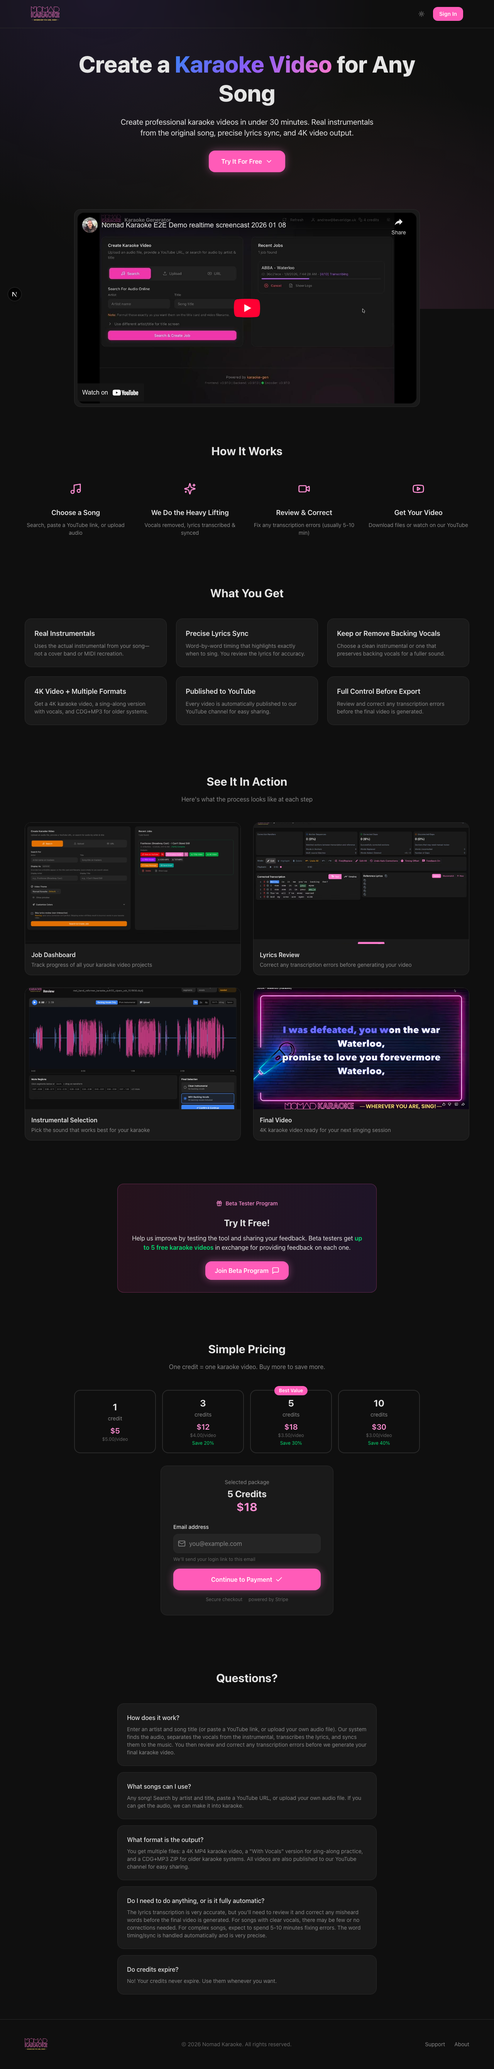
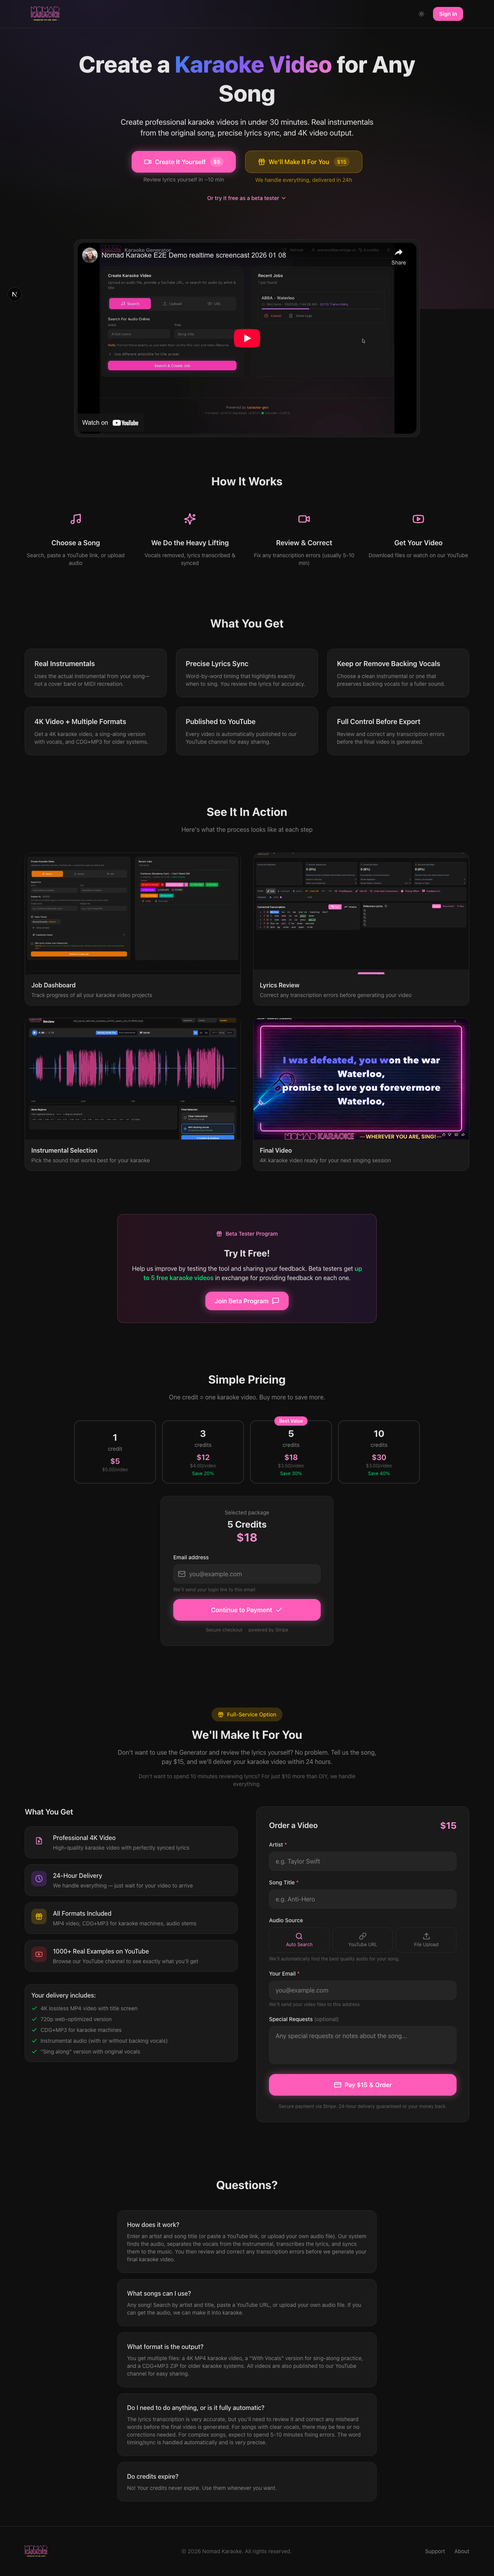
fix(dashboard): Remove double scroll and eliminate slow download loading
Two UX issues fixed:

1. Double scroll: Removed inner scroll container (max-h-[500px] overflow-y-auto)
   from jobs list - page now scrolls naturally without nested scroll areas

2. Slow "Loading downloads...": OutputLinks now uses job data directly instead
   of making 2 API calls per completed job card. Eliminates N×2 API calls that
   caused 10+ second delays for some jobs.

Changes:
- page.tsx: Remove scroll styles from jobs list container
- OutputLinks.tsx: Accept job prop, use file_urls and state_data directly
- JobCard.tsx: Pass full job object to OutputLinks

diff --git a/frontend/components/job/OutputLinks.tsx b/frontend/components/job/OutputLinks.tsx
@@ -1,7 +1,7 @@
 "use client"
 
-import { useEffect, useState, useRef, useCallback } from "react"
-import { api, adminApi } from "@/lib/api"
+import { useRef, useCallback, useEffect, useState } from "react"
+import { api, adminApi, Job } from "@/lib/api"
 import { useTenant } from "@/lib/tenant"
 import { Button } from "@/components/ui/button"
 import { Download, Loader2, ExternalLink, FolderOpen, Copy, Mail, Settings } from "lucide-react"
@@ -18,14 +18,16 @@ import { Input } from "@/components/ui/input"
 import { Label } from "@/components/ui/label"
 
 interface OutputLinksProps {
-  jobId: string
+  job: Job
 }
 
-export function OutputLinks({ jobId }: OutputLinksProps) {
-  const [downloadUrls, setDownloadUrls] = useState<Record<string, any> | null>(null)
-  const [youtubeUrl, setYoutubeUrl] = useState<string | null>(null)
-  const [dropboxUrl, setDropboxUrl] = useState<string | null>(null)
-  const [isLoading, setIsLoading] = useState(false)
+export function OutputLinks({ job }: OutputLinksProps) {
+  // Use file_urls from job directly - no API call needed
+  const downloadUrls = job.file_urls || null
+  // Use state_data from job directly - no API call needed
+  const youtubeUrl = job.state_data?.youtube_url || null
+  const dropboxUrl = job.state_data?.dropbox_link || null
+
   const [copiedUrl, setCopiedUrl] = useState<string | null>(null)
   const [copiedMessage, setCopiedMessage] = useState(false)
   const [isLoadingMessage, setIsLoadingMessage] = useState(false)
@@ -37,6 +39,15 @@ export function OutputLinks({ jobId }: OutputLinksProps) {
   const messageTimeoutRef = useRef<NodeJS.Timeout | null>(null)
   const emailTimeoutRef = useRef<NodeJS.Timeout | null>(null)
 
+  // Cleanup timeouts on unmount
+  useEffect(() => {
+    return () => {
+      if (copyTimeoutRef.current) clearTimeout(copyTimeoutRef.current)
+      if (messageTimeoutRef.current) clearTimeout(messageTimeoutRef.current)
+      if (emailTimeoutRef.current) clearTimeout(emailTimeoutRef.current)
+    }
+  }, [])
+
   const { user } = useAuth()
   const { features } = useTenant()
   const isAdmin = user?.role === 'admin'
@@ -44,46 +55,6 @@ export function OutputLinks({ jobId }: OutputLinksProps) {
   // Filter external links based on tenant features
   const showYoutubeLink = features.youtube_upload && youtubeUrl
   const showDropboxLink = features.dropbox_upload && dropboxUrl
-
-  useEffect(() => {
-    loadOutputLinks()
-  }, [jobId])
-
-  // Cleanup timeouts on unmount
-  useEffect(() => {
-    return () => {
-      if (copyTimeoutRef.current) {
-        clearTimeout(copyTimeoutRef.current)
-      }
-      if (messageTimeoutRef.current) {
-        clearTimeout(messageTimeoutRef.current)
-      }
-      if (emailTimeoutRef.current) {
-        clearTimeout(emailTimeoutRef.current)
-      }
-    }
-  }, [])
-
-  async function loadOutputLinks() {
-    setIsLoading(true)
-    try {
-      const result = await api.getDownloadUrls(jobId)
-      setDownloadUrls(result.download_urls)
-
-      // Extract YouTube and Dropbox URLs from state_data if available
-      const job = await api.getJob(jobId)
-      if (job.state_data?.youtube_url) {
-        setYoutubeUrl(job.state_data.youtube_url)
-      }
-      if (job.state_data?.dropbox_link) {
-        setDropboxUrl(job.state_data.dropbox_link)
-      }
-    } catch (err) {
-      console.error("Failed to load output links:", err)
-    } finally {
-      setIsLoading(false)
-    }
-  }
 
   const copyToClipboard = useCallback(async (url: string) => {
     // Check if clipboard API is available
@@ -118,7 +89,7 @@ export function OutputLinks({ jobId }: OutputLinksProps) {
 
     setIsLoadingMessage(true)
     try {
-      const response = await adminApi.getCompletionMessage(jobId)
+      const response = await adminApi.getCompletionMessage(job.job_id)
       await navigator.clipboard.writeText(response.message)
       setCopiedMessage(true)
 
@@ -136,14 +107,14 @@ export function OutputLinks({ jobId }: OutputLinksProps) {
     } finally {
       setIsLoadingMessage(false)
     }
-  }, [jobId])
+  }, [job.job_id])
 
   const handleSendEmail = useCallback(async () => {
     if (!emailInput.trim()) return
 
     setIsSendingEmail(true)
     try {
-      await adminApi.sendCompletionEmail(jobId, emailInput.trim(), true)
+      await adminApi.sendCompletionEmail(job.job_id, emailInput.trim(), true)
       setEmailSent(true)
 
       // Clear any existing timeout
@@ -162,16 +133,7 @@ export function OutputLinks({ jobId }: OutputLinksProps) {
     } finally {
       setIsSendingEmail(false)
     }
-  }, [jobId, emailInput])
-
-  if (isLoading) {
-    return (
-      <div className="flex items-center gap-2 text-xs" style={{ color: 'var(--text-muted)' }}>
-        <Loader2 className="w-3 h-3 animate-spin" />
-        Loading downloads...
-      </div>
-    )
-  }
+  }, [job.job_id, emailInput])
 
   const hasOutputs = showYoutubeLink || showDropboxLink || (downloadUrls && Object.keys(downloadUrls).length > 0)
 
@@ -249,7 +211,7 @@ export function OutputLinks({ jobId }: OutputLinksProps) {
             <>
                 {downloadUrls?.finals?.lossy_4k_mp4 && (
                   <a
-                    href={api.getDownloadUrl(jobId, "finals", "lossy_4k_mp4")}
+                    href={api.getDownloadUrl(job.job_id, "finals", "lossy_4k_mp4")}
                     className="inline-flex items-center gap-1 text-xs px-3 py-1.5 rounded bg-[var(--brand-pink)] hover:bg-[var(--brand-pink-hover)] text-white transition-colors"
                     onClick={(e) => e.stopPropagation()}
                   >
@@ -259,7 +221,7 @@ export function OutputLinks({ jobId }: OutputLinksProps) {
                 )}
                 {downloadUrls?.finals?.lossy_720p_mp4 && (
                   <a
-                    href={api.getDownloadUrl(jobId, "finals", "lossy_720p_mp4")}
+                    href={api.getDownloadUrl(job.job_id, "finals", "lossy_720p_mp4")}
                     className="inline-flex items-center gap-1 text-xs px-3 py-1.5 rounded bg-[#252525] hover:bg-[#333333] text-[var(--text)] border border-[var(--card-border)] transition-colors"
                     onClick={(e) => e.stopPropagation()}
                   >
@@ -269,7 +231,7 @@ export function OutputLinks({ jobId }: OutputLinksProps) {
                 )}
                 {downloadUrls?.videos?.with_vocals && (
                   <a
-                    href={api.getDownloadUrl(jobId, "videos", "with_vocals")}
+                    href={api.getDownloadUrl(job.job_id, "videos", "with_vocals")}
                     className="inline-flex items-center gap-1 text-xs px-3 py-1.5 rounded bg-[#252525] hover:bg-[#333333] text-[var(--text)] border border-[var(--card-border)] transition-colors"
                     onClick={(e) => e.stopPropagation()}
                   >
@@ -279,7 +241,7 @@ export function OutputLinks({ jobId }: OutputLinksProps) {
                 )}
                 {downloadUrls?.packages?.cdg_zip && (
                   <a
-                    href={api.getDownloadUrl(jobId, "packages", "cdg_zip")}
+                    href={api.getDownloadUrl(job.job_id, "packages", "cdg_zip")}
                     className="inline-flex items-center gap-1 text-xs px-3 py-1.5 rounded bg-[#252525] hover:bg-[#333333] text-[var(--text)] border border-[var(--card-border)] transition-colors"
                     onClick={(e) => e.stopPropagation()}
                   >
@@ -289,7 +251,7 @@ export function OutputLinks({ jobId }: OutputLinksProps) {
                 )}
                 {downloadUrls?.packages?.txt_zip && (
                   <a
-                    href={api.getDownloadUrl(jobId, "packages", "txt_zip")}
+                    href={api.getDownloadUrl(job.job_id, "packages", "txt_zip")}
                     className="inline-flex items-center gap-1 text-xs px-3 py-1.5 rounded bg-[#252525] hover:bg-[#333333] text-[var(--text)] border border-[var(--card-border)] transition-colors"
                     onClick={(e) => e.stopPropagation()}
                   >
@@ -330,7 +292,7 @@ export function OutputLinks({ jobId }: OutputLinksProps) {
                   </button>
                 </div>
                 <a
-                  href={`/admin/jobs/?id=${jobId}`}
+                  href={`/admin/jobs/?id=${job.job_id}`}
                   onClick={(e) => e.stopPropagation()}
                   className="inline-flex items-center gap-1 text-xs px-3 py-1.5 rounded bg-[#252525] hover:bg-[#333333] text-[var(--text)] border border-[var(--card-border)] transition-colors"
                   title="View job details in admin"

diff --git a/frontend/app/app/page.tsx b/frontend/app/app/page.tsx
@@ -236,7 +236,7 @@ function AppPageContent() {
                   <p>No jobs yet. Create one to get started!</p>
                 </div>
               ) : (
-                <div className="space-y-3 max-h-[500px] overflow-y-auto pr-2">
+                <div className="space-y-3">
                   {jobs.map((job) => (
                     <JobCard key={job.job_id} job={job} onRefresh={loadJobs} />
                   ))}

diff --git a/frontend/components/job/JobCard.tsx b/frontend/components/job/JobCard.tsx
@@ -210,7 +210,7 @@ export function JobCard({ job, onRefresh }: JobCardProps) {
       {/* Output links for completed jobs */}
       {isComplete && (
         <div className="mt-2">
-          <OutputLinks jobId={job.job_id} />
+          <OutputLinks job={job} />
         </div>
       )}
 
